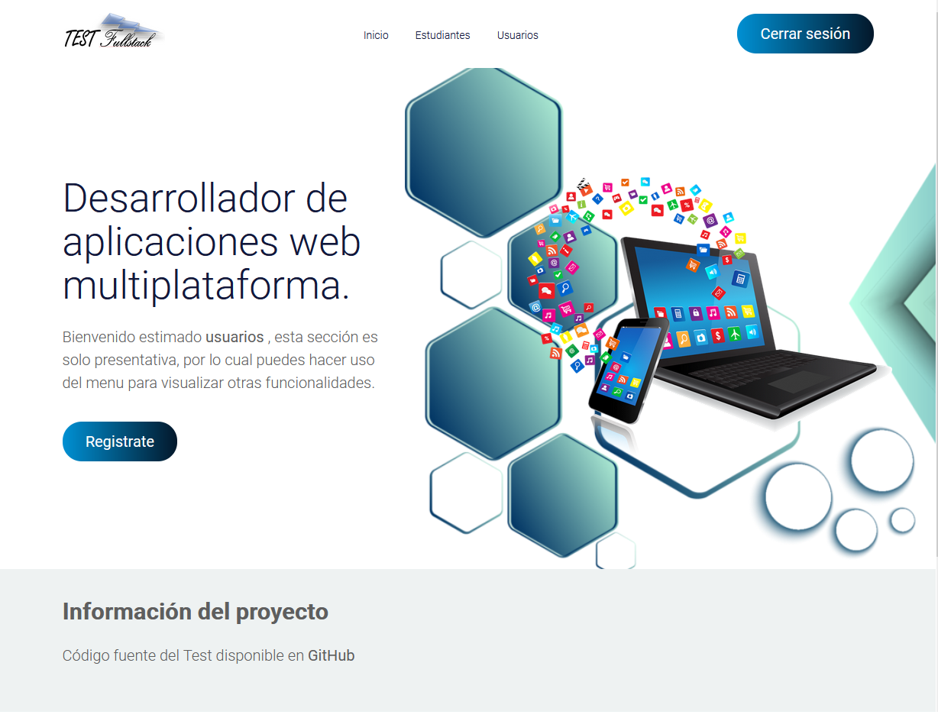
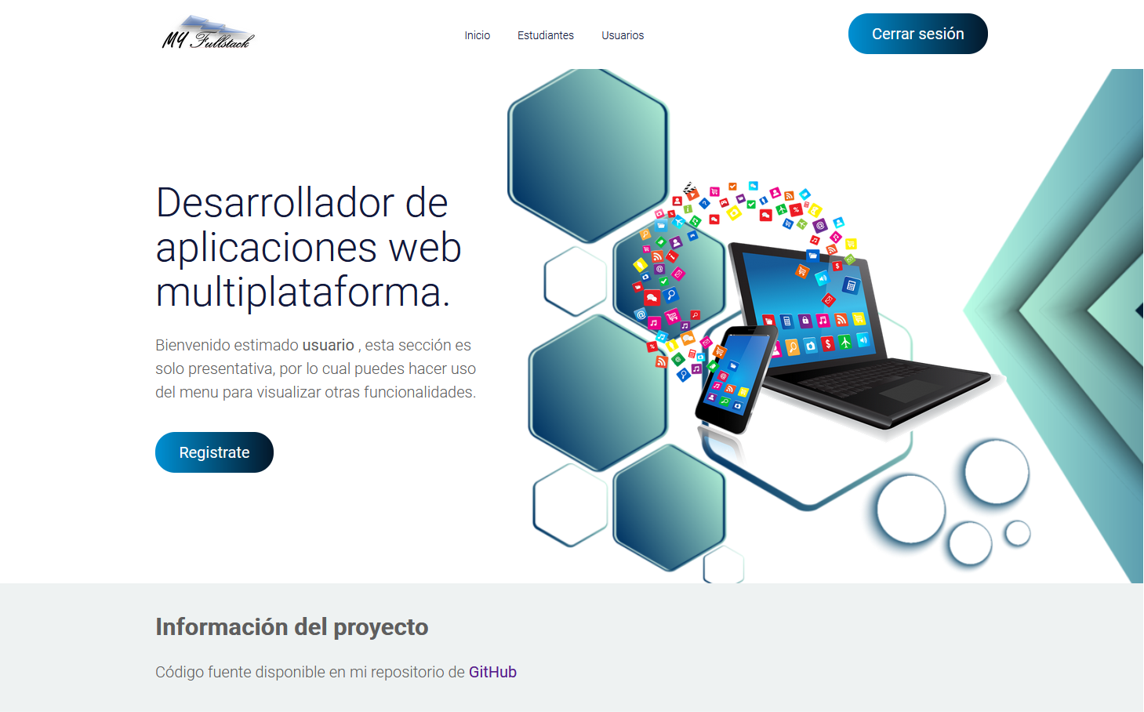
Fixed some bugs

diff --git a/frontend/src/app/pages/home/home.component.html b/frontend/src/app/pages/home/home.component.html
@@ -9,7 +9,7 @@
                 Desarrollador de aplicaciones web multiplataforma.
             </h1>
             <p>
-                Bienvenido estimado <b> usuarios </b>, esta sección es solo presentativa, por lo cual 
+                Bienvenido estimado <b> usuario </b>, esta sección es solo presentativa, por lo cual 
                 puedes hacer uso del menu para visualizar otras funcionalidades.
                 
             </p>

diff --git a/frontend/src/app/shared/feature/feature.component.html b/frontend/src/app/shared/feature/feature.component.html
@@ -5,7 +5,7 @@
         <div class="feature__start">
             <h2>Información del proyecto</h2>
             <p>
-              Código fuente del Test disponible en <b>GitHub</b>
+              Código fuente disponible en mi repositorio de <b> <a href="https://github.com/TheDrifterCoder/fullstack/tree/master" target="_blank"> GitHub </a> </b>
             </p>
         </div>
     

diff --git a/frontend/src/app/shared/confirm-dialog/confirm-dialog.component.html b/frontend/src/app/shared/confirm-dialog/confirm-dialog.component.html
@@ -7,6 +7,6 @@
   </div>
   
   <div mat-dialog-actions>
-    <button mat-button (click)="onDismiss()">No</button>
-    <button mat-raised-button color="primary" (click)="onConfirm()">Yes</button>
+    <button mat-button class="menu__delete" (click)="onDismiss()">No</button>
+    <button mat-raised-button color="menu__add" (click)="onConfirm()">Yes</button>
   </div>

diff --git a/frontend/src/app/shared/footer/footer.component.html b/frontend/src/app/shared/footer/footer.component.html
@@ -1,7 +1,7 @@
 <footer class="footer">
     <div class="container">
         <div class="footer__links col1">
-            <a href="#" class="button">Github</a>
+            <a href="https://github.com/TheDrifterCoder/fullstack/tree/master" target="_blank" class="button">Github</a>
         </div>
 
         <div class="footer__links col2">

diff --git a/frontend/src/app/config/backend-route.service.ts b/frontend/src/app/config/backend-route.service.ts
@@ -5,7 +5,7 @@ import { Injectable } from '@angular/core';
 })
 export class BackendRouteService {
 
-  private urlAPI = 'http://localhost/[aqui va la ruta del backend]/public/api';
+  private urlAPI = 'route here';
   constructor() { }
 
   backendURI(){

diff --git a/frontend/src/app/shared/header/header.component.html b/frontend/src/app/shared/header/header.component.html
@@ -28,6 +28,7 @@
   </nav>
 
   <div class=" header__menu has-fade">
+    <a routerLink="/home">Inicio</a>
     <a routerLink="/students">Estudiantes</a>
     <a routerLink="/users">Usuarios</a>
     <a (click)="logout()">Cerrar sesión</a>
